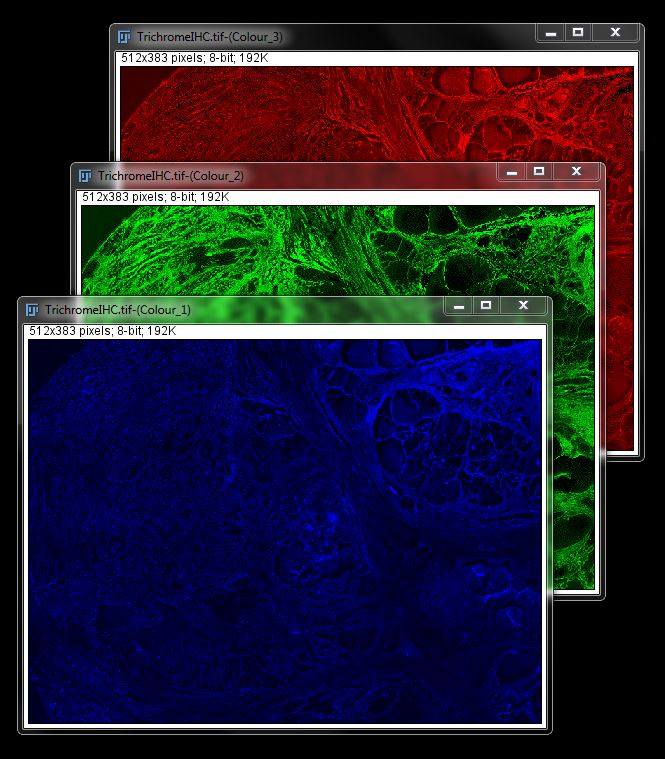
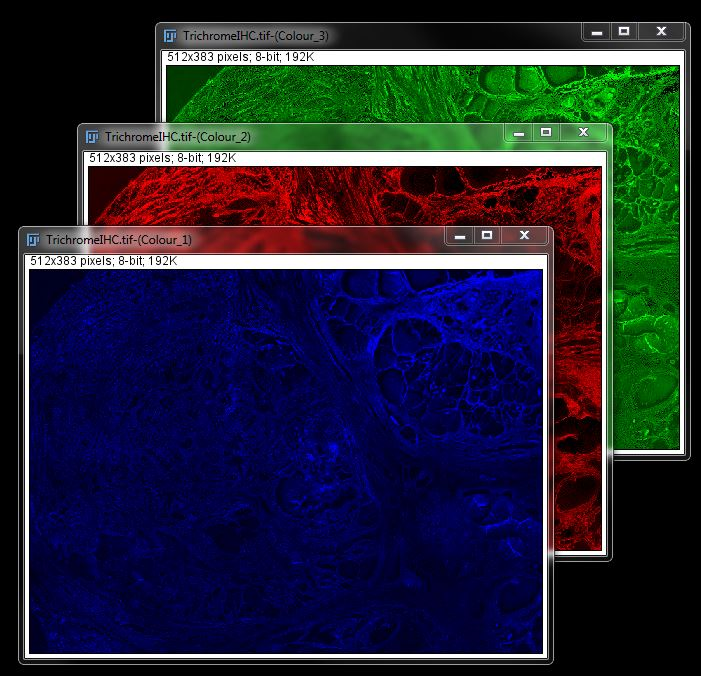
Updates part_5_channels_and_colours.md
Auto commit by GitBook Editor

diff --git a/part_5_channels_and_colours.md b/part_5_channels_and_colours.md
@@ -228,7 +228,7 @@ In the colour deconvolution window, there are a number of options in the drop do
 
 This will separate the image into 3 ‘colours’ – in this case, each is representative of one dye used. For two colour stains such as H&E or Dab the two stains will be separated and a third image will display the mathematical leftovers from the equation used.
 
-
+![](/assets/Part 5/IHC/IHC 3 - colours.jpg)
 
 You can now use any of these ‘channel’ images for measurements like counts, or area. The methods for these are described in our FIJI Intermediate workshop.
 
@@ -236,7 +236,11 @@ You can also use these separated images to transform a histological stained imag
 
 First you will need to invert each of the individual images. Do this for each image by selecting the image and going to **Edit -&gt; Invert** \(or using shortcut Ctrl+Shift+I\).
 
+![](/assets/Part 5/IHC/IHC 4 - invert menu.jpg)
+
 You can then assign LUTs to each image using the methods previously described. Here we have assigned LUTs in keeping with the 'red', 'green', and 'blue' colours of the Trichrome Dyes.
+
+
 
 We then merged channels as described for fluorescent images above to give you a pseudo-fluorescent version of the immunohistochemistry image.
 
